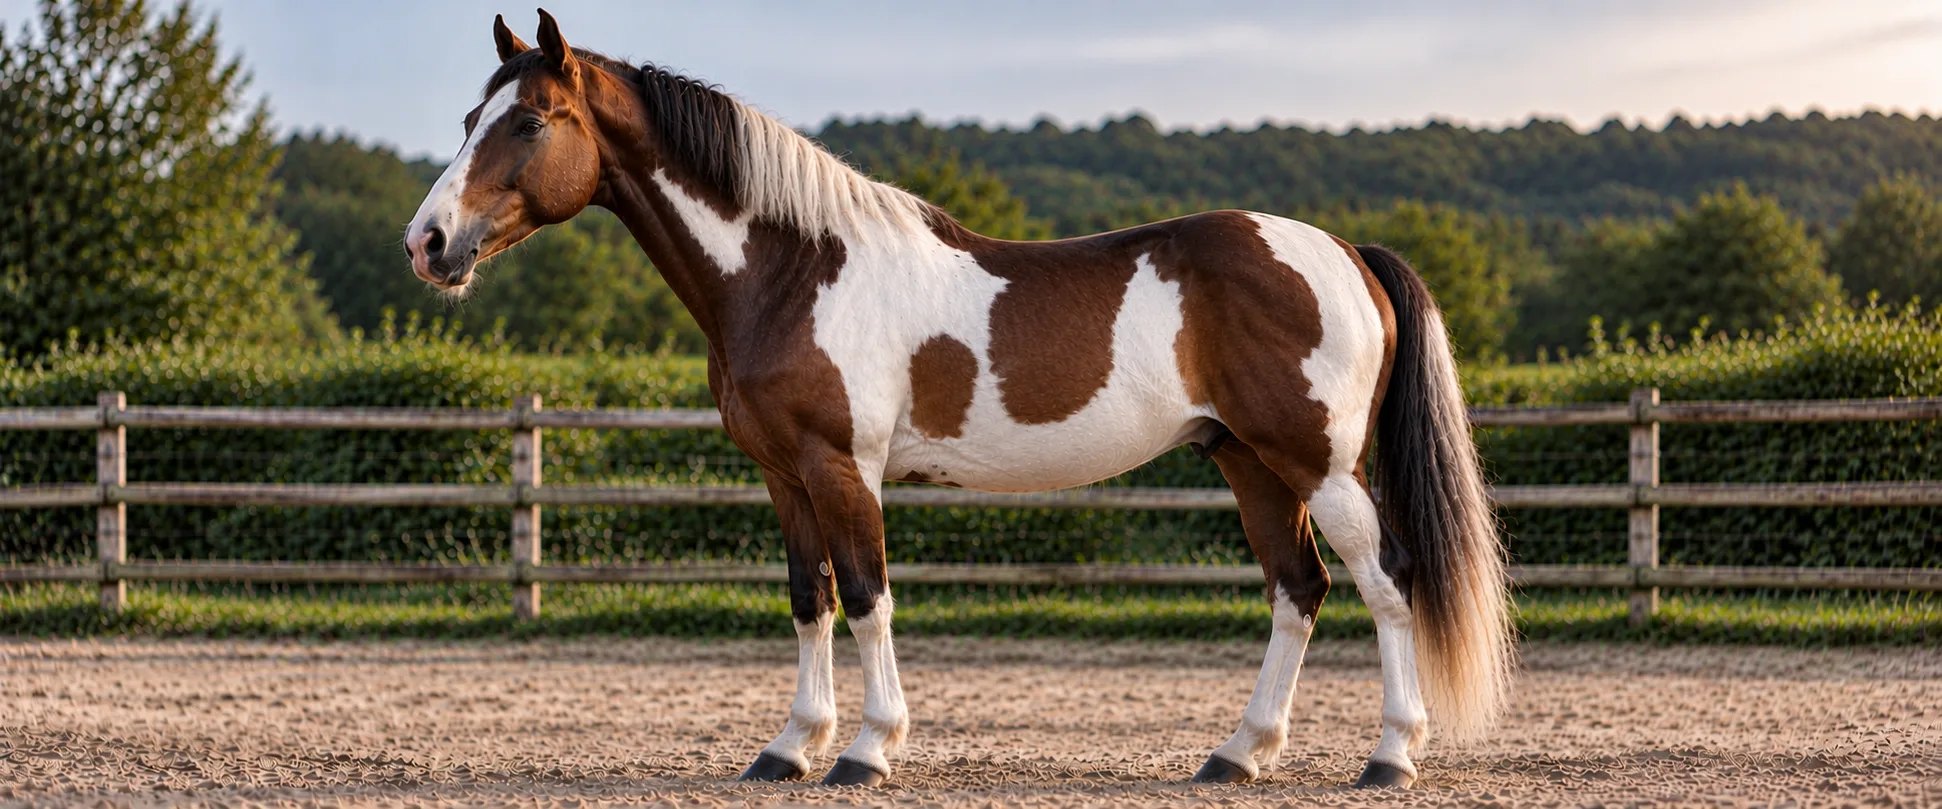
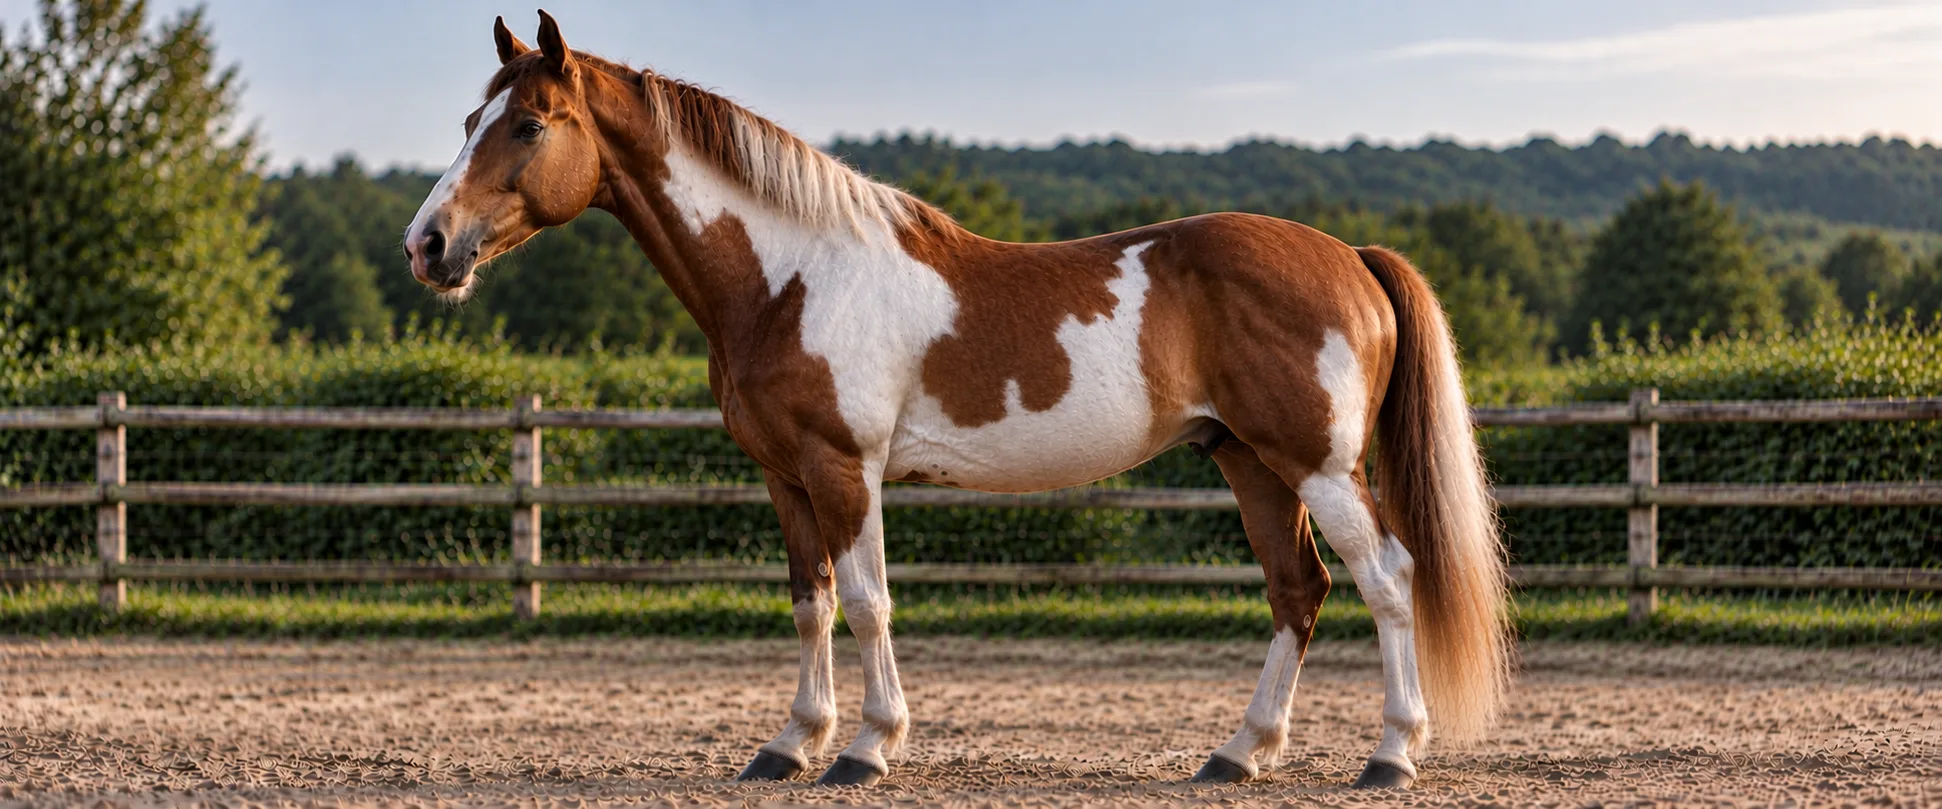
Robes ordi : bonne photo alezan pie, non publié
Claude-Session: https://claude.ai/code/session_01XFcqNR3TUghEQuaruzmCTy

diff --git a/SUIVI.md b/SUIVI.md
@@ -15438,3 +15438,5 @@ Brief « Claude-Hype-Hey-Baby-responsive ». Ne rien publier sans validation exp
 - 30/10 20h50 : photo « tachetée autre » (alezan à couverture tachetée) rangée en images/robes-g5-tachete-autres.webp (Galop 5) ; l appaloosa blanc reste pour Galop 2 (images/robes-g2-tachetee.webp).
 
 - 30/10 20h55 : photo alezan pie reçue (images/robes-g2-pie-alezan.webp), affichée en G2 avec noir pie et bai pie : les trois pies du programme ont leur photo. Tests G2 OK (17/17).
+
+- 30/10 21h00 : photo alezan pie remplacée par la bonne (robes-g2-pie-alezan.webp) ; l autre rangée en réserve (images/robes-reserve-pie-brun-crins-noirs.webp, non affichée).
